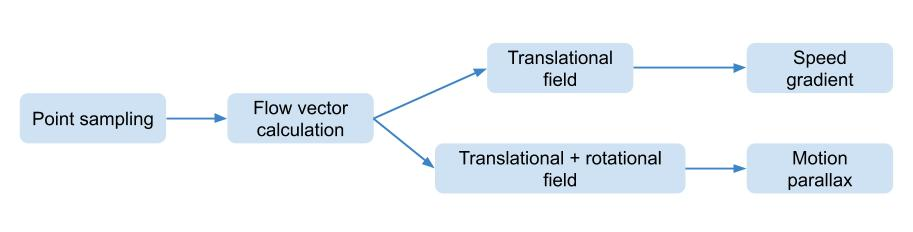
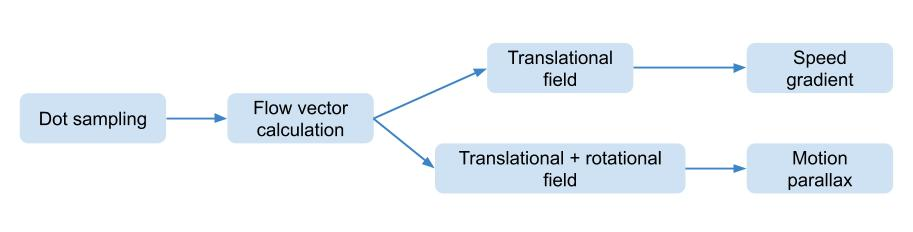
Added the code for dot sampling for the Line and Outline conditions, and changed the name in the pipeline diagram.

Changed region(s): [[0.0307, 0.4828, 0.184, 0.5733]]

diff --git a/Experiment1_Walking/AdditionalAnalysis/OpticFlowComparison/Outline/DotSampling.m b/Experiment1_Walking/AdditionalAnalysis/OpticFlowComparison/Outline/DotSampling.m
@@ -1,0 +1,99 @@
+
+%% Parameters of the outline
+% Wall outline (width, height and depth)
+wd = 12; ht = 3; dp = 12;
+
+% Doorway outline (height and width)
+dr_ht = 2.5; dr_wd = 0.5;
+
+% Other
+target_distance = 7;   % Distance from the starting point ([0, 0, 0])
+dot_resolution = 0.01; % Sampling resolution
+
+%% Calculate the dots
+%  Notes:
+%       1. Labels: 1 - Horizontal; 2 - Vertical
+%  		2. Unlike the target post in the Line condition, the dimension of the lines that constituted the outline was fixed in pixels (2 pixels), therefore only one edge is calculated for each line.
+
+% The top line of the front wall
+l_fr_up_x = -wd/2:dot_resolution:wd/2;
+l_fr_up_y = repmat(ht, size(l_fr_up_x));
+l_fr_up_z = repmat(target_distance, size(l_fr_up_x));
+l_fr_up_l = ones(size(l_fr_up_x)); 		% Label the sampled dots "1" as they are on a horizontal edge
+l_fr_up   = [l_fr_up_x; l_fr_up_y; l_fr_up_z; l_fr_up_l];
+
+% The bottom line of the front wall
+l_fr_bm_x = l_fr_up_x;
+l_fr_bm_y = l_fr_up_y - ht;
+l_fr_bm_z = l_fr_up_z;
+l_fr_bm_l = l_fr_up_l; 		% Same as above
+l_fr_bm   = [l_fr_bm_x; l_fr_bm_y; l_fr_bm_z; l_fr_bm_l];
+
+% The right line of the front wall
+l_fr_rt_y = 0:dot_resolution:ht;
+l_fr_rt_x = repmat(wd/2, size(l_fr_rt_y));
+l_fr_rt_z = repmat(target_distance, size(l_fr_rt_y));
+l_fr_rt_l = 2*ones(size(l_fr_rt_y)); 	% Label the sampled dots "2" as they are on a vertical edge
+l_fr_rt   = [l_fr_rt_x; l_fr_rt_y; l_fr_rt_z; l_fr_rt_l];
+
+% The left line of the front wall
+l_fr_lf_y = l_fr_rt_y;
+l_fr_lf_x = l_fr_rt_x - wd;
+l_fr_lf_z = l_fr_rt_z;
+l_fr_lf_l = l_fr_rt_l; 		% Same as above
+l_fr_lf   = [l_fr_lf_x; l_fr_lf_y; l_fr_lf_z; l_fr_lf_l];
+
+% The top line of the right wall
+l_rt_up_z = (dp - target_distance):dot_resolution:target_distance;
+l_rt_up_x = repmat(wd/2, size(l_rt_up_z));
+l_rt_up_y = repmat(ht, size(l_rt_up_z));
+l_rt_up_l = ones(size(l_rt_up_z)); 		% Label the sampled dots "1" as they are on a horizontal edge
+l_rt_up   = [l_rt_up_x; l_rt_up_y; l_rt_up_z; l_rt_up_l];
+
+% The bottom line of the right wall
+l_rt_bm_z = l_rt_up_z;
+l_rt_bm_x = l_rt_up_x;
+l_rt_bm_y = l_rt_up_y - ht;
+l_rt_bm_l = l_rt_up_l; 		% Same as above
+l_rt_bm   = [l_rt_bm_x; l_rt_bm_y; l_rt_bm_z; l_rt_bm_l];
+
+% The top line of the left wall
+l_lf_up_z = l_rt_up_z;
+l_lf_up_y = l_rt_up_y;
+l_lf_up_x = l_rt_up_x - wd;
+l_lf_up_l = l_rt_up_l; 		% Same as above
+l_lf_up   = [l_lf_up_x; l_lf_up_y; l_lf_up_z; l_lf_up_l];
+
+% The bottom line of the left wall
+l_lf_bm_z = l_lf_up_z;
+l_lf_bm_x = l_lf_up_x;
+l_lf_bm_y = l_lf_up_y - ht;
+l_lf_bm_l = l_lf_up_l; 		% Same as above
+l_lf_bm   = [l_lf_bm_x; l_lf_bm_y; l_lf_bm_z; l_lf_bm_l];
+
+% The top line of the doorway
+dr_up_x   = -dr_wd/2:dot_resolution:dr_wd/2;
+dr_up_y   = repmat(dr_ht, size(dr_up_x));
+dr_up_z   = repmat(target_distance, size(dr_up_x));
+dr_up_l   = ones(size(dr_up_x)); 		% Label the sampled dots "1" as they are on a horizontal edge
+dr_up     = [dr_up_x; dr_up_y; dr_up_z; dr_up_l];
+
+% The right line of the doorway
+dr_rt_y	  = 0:dot_resolution:dr_ht;
+dr_rt_x   = repmat(dr_wd/2, size(dr_rt_y));
+dr_rt_z   = repmat(target_distance, size(dr_rt_y));
+dr_rt_l   = 2*ones(size(dr_rt_y)); 		% Label the sampled dots "2" as they are on a vertical edge
+dr_rt     = [dr_rt_x; dr_rt_y; dr_rt_z; dr_rt_l];
+
+% The left line of the doorway
+dr_lf_x   = dr_rt_x - dr_wd;
+dr_lf_y   = dr_rt_y;
+dr_lf_z	  = dr_rt_z;
+dr_lf_l   = dr_rt_l; 		% Same as above
+dr_lf 	  = [dr_lf_x; dr_lf_y; dr_lf_z; dr_lf_l];
+
+% Put the sampled dots together
+outline_dots_pos = [l_fr_up, l_fr_bm, l_fr_rt, l_fr_lf, l_rt_up, l_rt_bm, l_lf_up, l_lf_bm, dr_up, dr_rt, dr_lf]';
+
+%% Export the position of the dots on the wall
+dlmwrite('Outline_positions.csv', outline_dots_pos,'delimiter',',');

diff --git a/Experiment1_Walking/AdditionalAnalysis/OpticFlowComparison/Line/DotSampling.m b/Experiment1_Walking/AdditionalAnalysis/OpticFlowComparison/Line/DotSampling.m
@@ -1,0 +1,46 @@
+
+%% Dimension of the target post and the distance to the starting point ([0, 0, 0])
+line_X = [-0.01, 0.01];
+line_Y = 3;
+line_Z = 7;
+
+%% Sample dots on the target post:
+%  Notes:
+%		1. Choose a resolution for sampling the target post arbitrarily.
+%       2. Label: 1 - on a horizontal edge; 2 - on a vertical edge.
+
+dot_resolution = 0.01;
+
+% Sampling the top edge of the target post
+line_dots_up_x = [line_X(1): dot_resolution: line_X(2)];
+line_dots_up_y = repmat(line_Y, size(line_dots_up_x));
+line_dots_up_l = ones(size(line_dots_up_x)); % Label the sampled dots "1" as they are on a horizontal edge
+
+% Sampling the bottom edge of the target post
+line_dots_down_x = [line_X(1): dot_resolution: line_X(2)];
+line_dots_down_y = zeros(size(line_dots_down_x));
+line_dots_down_l = ones(size(line_dots_down_x)); % Label the sampled dots "1" as they are on a horizontal edge
+
+% Sampling the left edge of the target post
+line_dots_left_y = [0: dot_resolution: line_Y]; 
+line_dots_left_x = repmat(line_X(1), size(line_dots_left_y));
+line_dots_left_l = 2*ones(size(line_dots_left_y)); % Label the sampled dots "2" as they are on a vertical edge
+
+% Sampling the right edge of the target post
+line_dots_right_y = [0: dot_resolution: line_Y]; 
+line_dots_right_x = repmat(line_X(2), size(line_dots_right_y));
+line_dots_right_l = 2*ones(size(line_dots_right_y)); % Label the sampled dots "2" as they are on a vertical edge
+
+% Put the sampled points together along each dimension
+line_dots_x = [line_dots_up_x'; line_dots_down_x'; line_dots_left_x'; line_dots_right_x'];
+line_dots_y = [line_dots_up_y'; line_dots_down_y'; line_dots_left_y'; line_dots_right_y'];
+line_dots_l = [line_dots_up_l'; line_dots_down_l'; line_dots_left_l'; line_dots_right_l'];
+
+% Add the depth of the target post
+line_dots_z = repmat(line_Z, size(line_dots_x));
+
+% Put the location data together
+line_dots_pos = [line_dots_x, line_dots_y, line_dots_z, line_dots_l];
+
+%% Export the position of the dots on the wall
+dlmwrite('Line_positions.csv', line_dots_pos,'delimiter',',');
